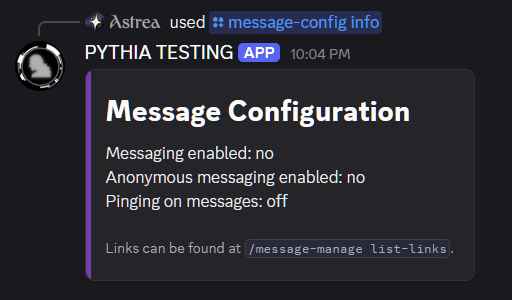
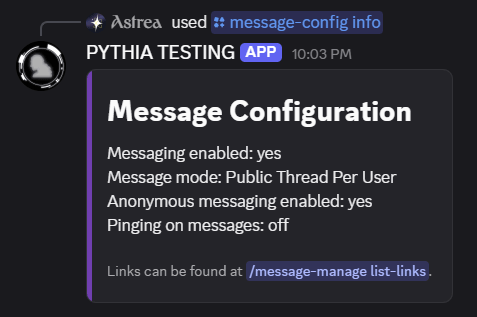
feat: mid june 2026 updates

Changed region(s): [[0.0294, 0.03, 0.9099, 0.96]]

diff --git a/overrides/main.html b/overrides/main.html
@@ -1,5 +1,9 @@
 {% extends "base.html" %}
 
+{% block announce %}
+Messaging system revamp, more exporting/importing, and more: check out the <a href="/updates/2026/06/18/update-post---mid-june-2026.html"><strong>Mid-June update post</strong></a>!
+{% endblock %}
+
 <!-- Site title -->
 {% block htmltitle %}
 {% if page.is_homepage %}

diff --git a/docs/updates/posts/061826-mid-june-updates.md b/docs/updates/posts/061826-mid-june-updates.md
@@ -1,0 +1,88 @@
+---
+date: 2026-06-18
+authors:
+  - astrea
+categories:
+  - Updates
+
+description: An update post detailing revamps to the messaging system and the addition of exporting/importing items for more systems.
+comments: true
+---
+
+# Update Post - Mid June 2026
+
+Hello again! Today, I'm announcing a couple of updates to PYTHIA!
+
+- The first is a revamp to the messaging system, allowing you to separated sent messages into threads and also allowing users to send images and videos.
+- More systems now allow you to export and import items, allowing you to easily transfer items between servers or keep backups of your items.
+- Finally, a few extra changes have been done for convenience.
+
+<!-- more -->
+
+## Messaging Systems Revamps
+
+### Messaging Modes
+
+The messaging system now has three modes for how messages are sent to users:
+- **Classic**: This is the original messaging mode, where messages are sent directly to the linked channel for a user. This mode does not use threads, and all messages for a user will be sent to the same channel.
+- **Public Thread Per User**: In this mode, a new thread will be created in the linked channel for a user when they receive their first message. All messages for that user will be sent to that thread. This is the new default mode for the messaging system.
+- **Private Thread Per User**: This mode is similar to the "Public Thread Per User" mode, but the thread created for a user will be private, and only the user and staff members will be able to see the thread and the messages in it.
+
+Confusing? Here's an example of what the difference is between "Classic" and "Public Thread Per User" in the channel view when `@astrea.tss` sends a message to `@hecatetss`:
+
+<div class="grid cards" markdown>
+
+-   **Classic**
+
+    <figure markdown>
+        ![An example of the classic messaging mode.](message_mode_classic.png)
+    </figure>
+    
+
+-   **Public Thread Per User**
+
+    <figure markdown>
+        ![An example of the public thread messaging mode.](message_mode_threads.png)
+    </figure>
+
+</div>
+
+More information can be found in the [modes section of the Messaging Setup Guide](messaging_setup.md#modes).
+
+!!! note "Default Mode Setting"
+    For servers that had PYTHIA before June 18th, 2026 and used the messaging system, the mode will be set to "Classic" by default unless it is changed.
+    However, for servers that did not have PYTHIA before this date, the mode will be set to "Public Thread Per User" by default.
+
+### Sending Images and Videos
+
+Users can now send images and videos through the messaging system!
+
+When sending a message, a pop-up will appear allowing you to type your message and add an image or video to the message.
+
+<figure markdown>
+  ![An example of the message pop-up.](message_send_modal.png)
+</figure>
+
+???+ tip "Don't Want to Use the Pop-Up?"
+    If you don't want to use the pop-up, you can supply the `message` option directly into `/message send`.
+
+The text/prefixed variant of the command, `@BOTMENTION message send @USER <message>`, also allows you to attach multiple files to a message, which the pop-up does not support.
+
+More information can be found in the [Messaging Guide](messaging.md#sending-a-message).
+
+## Exporting/Importing Items for More Systems
+
+More systems now support exporting and importing items! This includes:
+- [The Items System](items_setup.md#exportingimporting-items)
+- Staff for the [Dice System](dice_management.md#exportingimporting-registered-dice-for-a-user)
+- Channels for the [Truth Bullet System](bda_investigations_setup.md#exportingimporting-truth-bullets-for-a-channel)
+
+This expands upon the existing exporting the importing functionality that already existed for:
+- [The Gacha System](gacha_setup.md#exportingimporting-items)
+- Normal users for the [Dice System](dice.md#exportingimporting-registered-die)
+
+## Other Changes
+
+- `/bullet-manage move` allows you to move a Truth Bullet from one channel to another.
+- `/gacha-manage transfer-item` allows you to transfer an item from one player to another.
+- Aliases for Truth Bullets can now be up to 60 characters long, up from 40.

diff --git a/docs/setup/messaging_setup.md b/docs/setup/messaging_setup.md
@@ -19,10 +19,35 @@ All configuration commands for the system can be found under the `/message-confi
 
 You can get a pretty good idea of what options are available to you just from this alone, but to change them:
 - `/message-config toggle` turns the messaging system on or off. If the messaging system is turned off, players will not be able to send messages through the bot. By default, it is off.
+- `/message-config mode` changes the mode of the messaging system, which changes how messages are sent to users. See the [Modes](#modes) section below for more information on the different modes.
 - `/message-config anonymous-messaging` allows you to toggle whether or not users can send messages anonymously (IE a player can send a message without the receiver knowing who sent it). By default, they cannot.
 - `/message-config ping-on-message` allows you to toggle whether or not the bot will ping the receiver when they receive a message. By default, it is *off*.
 
-And that's all for this part!
+### Modes
+
+`/message-config mode` allows you to change the mode of the messaging system. The mode changes how messages are sent to users.
+
+By default, the mode is *"Public Thread Per User"*, which means that when a message is sent to a user, the bot will look for a public thread in the linked channel that matches the user.
+If it finds one, it will send the message there; if it doesn't, it will create one and then send the message there.
+
+Here's an example of what that looks like when `@astrea.tss` sends a message to `@hecatetss`:
+
+<figure markdown>
+  ![An example of AstreaTSS sending a message to HecateTSS.](message_mode_threads.png)
+</figure>
+
+There are two other modes available as well:
+
+- *"Private Thread Per User"* is the same as "Public Thread Per User", except the bot will create private threads instead of public threads. This is only recommended if the linked channel is a public channel.
+- *"Classic (All Messages In One Channel)"* is a more classic way of doing messaging systems, where all messages to users are sent in the linked channel directly, without using threads. This replicates the behavior of Ultimate Assistant.
+
+<figure markdown>
+  ![An example of the classic messaging mode.](message_mode_classic.png)
+  <figcaption>An example of the classic messaging mode when @astrea.tss sends a message to @hecatetss.</figcaption>
+</figure>
+
+!!! note "Old Mode Setting"
+    Before June 18th, 2026, the messaging mode defaulted to "Classic" instead of "Public Thread Per User". As such, servers that had PYTHIA before this date and used the messaging system will have the mode set to "Classic" unless it was changed.
 
 ## Links
 
@@ -52,6 +77,41 @@ To see what links are currently in the system, you can use `/message-manage list
 ### Removing and Clearing Link
 
 To remove a link, you can use `/message-manage remove-link` and specify the user to remove the link from. If you want to remove all links, you can use `/message-manage clear-links`.
+
+### Threads
+
+!!! warning
+    - **These commands only work for messaging modes that use threads** (IE "Public Thread Per User" and "Private Thread Per User").
+    - **These commands are only meant for power users!** By default, PYTHIA will automatically create and manage threads for users as needed.
+
+If you are using a messaging mode that uses threads, then PYTHIA will automatically create threads for users when it needs to send them a message.
+However, if you want to manage these threads yourself, you can use the `/message-manage threads` commands.
+
+#### View For User
+
+To view the thread for a user, you can use `/message-manage threads view-for` and specify the user. This will give you a list of the thread(s) for that user.
+
+<figure markdown>
+  ![An example of viewing threads for a user.](message_threads_view_for.png)
+  <figcaption>In this example, we can see anonymous messages meant for Hecate are sent to one threads, and messages sent by Astrea to Hecate are sent to another thread.</figcaption>
+</figure>
+
+#### Set Thread
+
+To set a thread for a user, you can use `/message-manage threads set`:
+- `user` specifies the user to set the thread for.
+- `other_user` specifies the other user in the conversation. For example, if `user` is @Hecate and `other_user` is @Astrea, this would set the thread for messages between Hecate and Astrea *for Hecate*.
+- `thread` specifies the thread to set.
+
+<figure markdown>
+  ![An example of setting a thread for a user.](message_threads_set.png)
+</figure>
+
+To set a thread for anonymous messages, you can use the same `/message-manage threads set-anonymous` command, which has the same options except `other_user`.
+
+#### Unset Thread
+
+`/message-manage threads unset` and `/message-manage threads unset-anonymous` work the same way as the set variants, except they unset the thread instead of setting it.
 
 ## Finally...
 

diff --git a/docs/usage/messaging.md b/docs/usage/messaging.md
@@ -11,27 +11,40 @@ The messaging system is a way for you to send messages to other players through 
 
 ## Sending a Message
 
-To send a message, you can use `/message send` followed by the user you want to send a message to and the message you want to send. Once you send the message, it will be sent to the user's channel, and a copy of the message will be sent to your channel. Here's an example of what that looks like:
+To send a message, you can use `/message send` followed by the user you want to send a message to. A pop-up will then appear, where you can type your message and/or add a image/video to the message. Here's an example of what that looks like:
+
+<figure markdown>
+  ![An example of the message pop-up.](message_send_modal.png)
+</figure>
+
+???+ tip "Don't Want to Use the Pop-Up?"
+    If you don't want to use the pop-up, you can supply the `message` option directly into `/message send`.
+    This allows you to send a message in one command, but does not allow you to send messages with multiple lines or add images/videos to the message.
+
+Once you send the message, it will be sent to the user's channel (or a thread in their channel), and a copy of the message will be sent to your channel (or a thread in your channel). Here's an example of what that looks like:
 
 <figure markdown>
   ![An example of the message that appears in your channel.](message_receipt.png)
   ![An example of the message that appears in the user's channel.](message_to_user.png)
 </figure>
 
-### Multi-line Messages
+### Multiple Files In A Message
 
-You may have noticed that slash commands don't allow for multi-line messages. To send a multi-line message, you can instead use the text/prefixed variant of the command, `@BOTMENTION message send @USER <message>`. Here's an example:
+You may have noticed that the pop-up only allows you to add one file to a message.
+However, you can actually add multiple files to a message by using the text/prefixed variant of the command, `@BOTMENTION message send @USER <message>`, and attaching multiple files to that message. Here's an example of what that looks like:
 
 <figure markdown>
-  ![An example of a multi-line message using a text command.](message_send_prefixed.png)
+  ![An example of a multi-file message using a text command.](message_send_prefixed.png)
 </figure>
 
-This is also convienent for sending messages fast, though try not to spam the bot with too many messages at once!
+This is also convienent for sending messages quickly, though try not to spam the bot with too many messages at once!
 
 !!! note "Usage Notes"
     In this example, the testing bot was mentioned. Of course, you should mention the main "PYTHIA" bot instead.
 
     If you think `message` takes up too many characters, you can replace it with `msg`. If you're feeling a bit old-school, you can also replace `send` with `whisper`.
+
+    **If you attached files to the message, do not delete the message you used to send the message!** The bot uses the attachments in that message directly; if you delete it, the message sent to the user will lose those files.
 
 ## Anonymous Messages
 
@@ -48,4 +61,4 @@ The receiving user will then receive a message that will not show who sent it. H
 
     Anonymous messages are not truly anonymous - a copy of the message is still sent to your channel, so staff members can still see who sent the message.
 
-    You can send multi-line anonymous messages in the same way as regular messages, just using `message anon` instead of `message send`.
+    You can use the text/prefixed variant of the command (e.g., `@BOTMENTION message anon @USER <message>`) for anonymous messages as well, just like with regular messages.

diff --git a/docs/setup/bda_investigations_setup.md b/docs/setup/bda_investigations_setup.md
@@ -117,8 +117,31 @@ This is where aliases come in. They allow you to have multiple triggers for the 
 
 To add an alias (an alternative trigger to trigger the same Truth Bullet), simply use the `/bullet-manage add-alias` command with the channel, trigger of the Truth Bullet, and the alias you wish to add to the Bullet. As you can imagine, `/bullet-manage remove-alias` follows a similar process.
 
+### Exporting/Importing Truth Bullets For A Channel
+
+If you wish to transfer Truth Bullets from a channel to another channel in this server or even to another server, or just wish to create a shareable list of Truth Bullets, you can use the export and import functions for Truth Bullets.
+
+To *export* Truth Bullets for a channel, you can use `/bullet-manage export-channel` with a specified channel. This should give you a file ending in `.json`; this is a [JSON file](https://en.wikipedia.org/wiki/JSON), and it can be shared around freely. No private information is stored on these other than basic information about the items themselves.
+
+You can also edit it directly if you wish; this should not be necessary, but can be done for advanced use cases. If you choose to do so, please expand the below note.
+
+??? note "Notes for Editing JSON"
+    While editing the JSON file, please keep in mind some limitations:
+
+    - **You are generally expected to know how JSON files work. There will be no support given for editing JSON files.**
+    - Keep the version number the same! The version number is used to indicate the format of the items, which makes sure JSON files work even in the future. Changing it can lead to unexpected side effects.
+    - Stay to the format that your JSON file has. Any deviations will likely not be tolerated.
+    - `image` must be a valid URL to an image, or it can be left as `null` if the item does not have an image.
+    - `aliases` must be an array of strings, where each string is an alias for the Truth Bullet.
+    - The bot enforces the same limitations as making items through the bot itself.
+
+You may import exported Truth Bullets for a channel through `/bullet-manage import-channel` and giving your JSON file and the target channel. This may be done from other servers other than the server where the file was exported from.
+
+The bot, by default, will error out if there are any Truth Bullets in the export that overlap with Truth Bullets already in the channel. To get around this, you can use the `override` option in `/bullet-manage import-channel` to replace those Bullets.
+
 ### Other Commands
 
+* `/bullet-manage move` allows you to move a Truth Bullet from one channel to another.
 * `/bullet-manage override-finder` and `/bullet-manage unfind` are more useful _during_ investigations, as you can imagine, but they simply allow you to either re-define who found a Truth Bullet or un-discover it so its trigger can be triggered once again.
 * `/bullet-manage manual-trigger` allows you to manually trigger a Truth Bullet in the current channel, even allowing you to specify a finder if needed.
   * This can be used even when triggering Truth Bullets are *off*. If you prefer your players to discover Truth Bullets in a different way than what the bot allows but still would like some organization, this may be for you!

diff --git a/docs/setup/items_setup.md b/docs/setup/items_setup.md
@@ -151,6 +151,27 @@ To delete an item, it's as simple as using `/items-manage delete-item` with the 
 
 If you want to clear all items from the items system, you'll need to run `/items-manage clear-everything`. The command is named as such as deleting all items inherently removes all items from all possessors, effectively clearing everything.
 
+### Exporting/Importing Items
+
+If you wish to transfer items to another server, or just wish to create a shareable list of items in general, the process is simple.
+
+To *export* items, you can use `/items-manage export-items`. This should give you a file ending in `.json`; this is a [JSON file](https://en.wikipedia.org/wiki/JSON), and it can be shared around freely. No private information is stored on these other than basic information about the items themselves.
+
+You can also edit it directly if you wish; this should not be necessary, but can be done for advanced use cases. If you choose to do so, please expand the below note.
+
+??? note "Notes for Editing JSON"
+    While editing the JSON file, please keep in mind some limitations:
+
+    - **You are generally expected to know how JSON files work. There will be no support given for editing JSON files.**
+    - Keep the version number the same! The version number is used to indicate the format of the items, which makes sure JSON files work even in the future. Changing it can lead to unexpected side effects.
+    - Stay to the format that your JSON file has. Any deviations will likely not be tolerated.
+    - `image` must be a valid URL to an image, or it can be left as `null` if the item does not have an image.
+    - The bot enforces the same limitations as making items through the bot itself.
+
+You may import exported items through `/items-manage import-items` and giving your JSON file. This may be done from other servers other than the server where the file was exported from.
+
+The bot, by default, will error out if there are any items in the export that overlap with items already in the server. To get around this, you can use the `override` option in `/items-manage import-items` to replace those items.
+
 ## Channels
 
 ### Place Item In Channel

diff --git a/docs/setup/dice_management.md b/docs/setup/dice_management.md
@@ -78,3 +78,23 @@ To roll a user's die, you can use `/dice-manage roll-registered-for`:
 </figure>
 
 This command, by default, makes the message visible to all. If you do not want this, you can use the `hidden` option to make the message only visible to you.
+
+### Exporting/Importing Registered Dice For A User
+
+If you wish to transfer registered dice for a user to another server, or just wish to create a shareable list of registered dice in general, the process is simple.
+
+To *export* dice, you can use `/dice-manage export-for` and specify the user. This should give you a file ending in `.json`; this is a [JSON file](https://en.wikipedia.org/wiki/JSON), and it can be shared around freely. No private information is stored on these other than basic information about the items themselves.
+
+You can also edit it directly if you wish; this should not be necessary, but can be done for advanced use cases. If you choose to do so, please expand the below note.
+
+??? note "Notes for Editing JSON"
+    While editing the JSON file, please keep in mind some limitations:
+
+    - **You are generally expected to know how JSON files work. There will be no support given for editing JSON files.**
+    - Keep the version number the same! The version number is used to indicate the format of the items, which makes sure JSON files work even in the future. Changing it can lead to unexpected side effects.
+    - Stay to the format that your JSON file has. Any deviations will likely not be tolerated.
+    - The bot enforces the same limitations as making items through the bot itself.
+
+You may import exported dice for a user through `/dice-manage import-for` and giving your JSON file. This may be done from other servers other than the server where the file was exported from.
+
+The bot, by default, will error out if there are any dice in the export that overlap with dice already in the server for the user. To get around this, you can use the `override` option in `/dice-manage import-for` to replace those dice.

diff --git a/docs/setup/gacha_setup.md b/docs/setup/gacha_setup.md
@@ -184,6 +184,9 @@ To remove an item from a player, you can use `/gacha-manage remove-item-from` an
     - `remove_amount_from_gacha` for `/gacha-manage add-item-to`.
     - `replenish_gacha` for `/gacha-manage remove-item-from`.
 
+### Transferring Items Between Players
+
+To transfer an item from one player to another, you can use `/gacha-manage transfer-item` and specify the from user, the to user, the item, and optionally, the quantity you want to transfer (if not specified, it defaults to 1).
 
 ### Exporting/Importing Items
 
@@ -191,7 +194,7 @@ If you wish to transfer items to another server, or just wish to create a sharea
 
 To *export* items, you can use `/gacha-manage export-items`. This should give you a file ending in `.json`; this is a [JSON file](https://en.wikipedia.org/wiki/JSON), and it can be shared around freely. No private information is stored on these other than basic information about the items themselves.
 
-You can also edit it directly if you wish; this should not be necessary, but can be done for advanced usecases. If you choose to do so, please expand the below note.
+You can also edit it directly if you wish; this should not be necessary, but can be done for advanced use cases. If you choose to do so, please expand the below note.
 
 ??? note "Notes for Editing JSON"
     While editing the JSON file, please keep in mind some limitations:
@@ -201,9 +204,10 @@ You can also edit it directly if you wish; this should not be necessary, but can
     - Stay to the format that your JSON file has. Any deviations will likely not be tolerated.
     - `rarity` can range from 1-5, and represent (in order) common, uncommon, rare, epic, and legendary.
     - When `amount` is `-1`, that means it is unlimited.
+    - `image` must be a valid URL to an image, or it can be left as `null` if the item does not have an image.
     - The bot enforces the same limitations as making items through the bot itself.
 
-Regardless, you may import exported items through `/gacha-manage import-items` and giving your JSON file. This may be done from other servers other than the server where the file was exported from.
+You may import exported items through `/gacha-manage import-items` and giving your JSON file. This may be done from other servers other than the server where the file was exported from.
 
 The bot, by default, will error out if there are any items in the export that overlap with items already in the server. To get around this, you can use the `override` option in `/gacha-manage import-items` to replace those items.
 